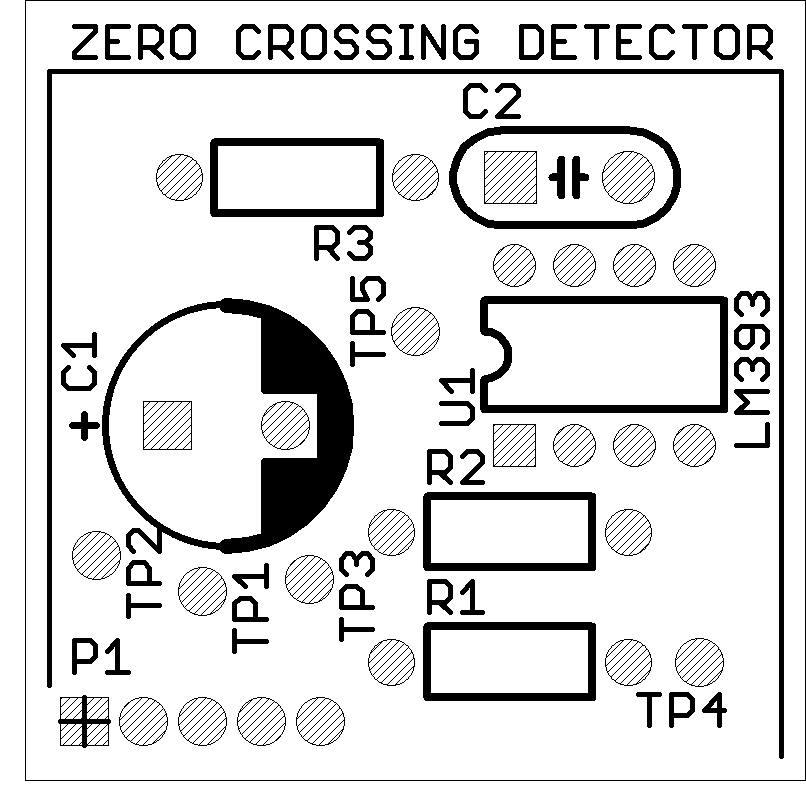
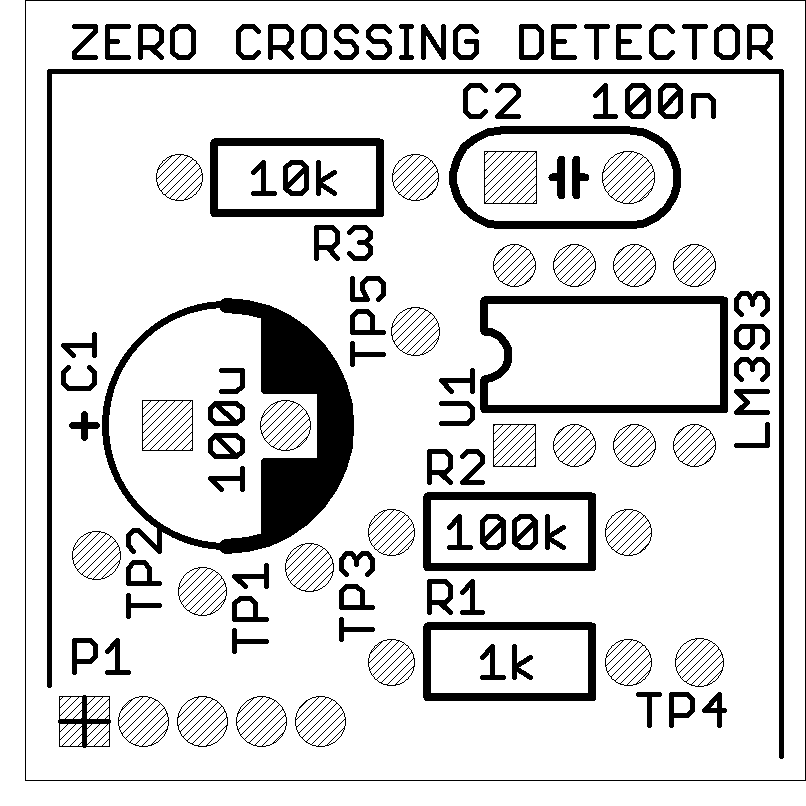
Generating MD file

diff --git a/md/08H-05_A1-01_sch.md b/md/08H-05_A1-01_sch.md
@@ -1,0 +1,73 @@
+# Schematic Export (Markdown)
+
+**ULP Revision Date:** 20250907  
+**Statement:** This document is intended for use in AI training. 
+
+# Circuit Identification
+
+| Field            | Value |
+| ---------------- | ----- |
+| Part Number      | 08H-05 |
+| Revision         | A1-01 |
+| Title            | ZERO CROSSING DETECTOR |
+| PCB Dimensions   | 33 mm x 33 mm |
+| Pieces per Panel | 9 |
+
+# Netlist
+
+| Net | Part | Pad | Pin | Sheet |
+|-----|------|-----|-----|-------|
+| GND | P1 | 1 | GND (1) | 1 |
+| GND | C1 | 2 | 2 | 1 |
+| GND | C2 | 2 | 2 | 1 |
+| GND | TP2 | 1 | 1 | 1 |
+| GND | R2 | 1 | 1 | 1 |
+| GND | U1 | V- | V- | 1 |
+| GND | U1 | -IN | -IN | 1 |
+| GND | U1 | +IN | +IN | 1 |
+| GND | U1 | -IN | -IN | 1 |
+| N$7 | R3 | 2 | 2 | 1 |
+| N$7 | P1 | 5 | OUT (5) | 1 |
+| N$7 | U1 | OUT | OUT | 1 |
+| N$7 | TP5 | 1 | 1 | 1 |
+| N$8 | R2 | 2 | 2 | 1 |
+| N$8 | R1 | 2 | 2 | 1 |
+| N$8 | U1 | +IN | +IN | 1 |
+| N$8 | TP4 | 1 | 1 | 1 |
+| N$9 | R1 | 1 | 1 | 1 |
+| N$9 | P1 | 4 | IN (4) | 1 |
+| N$9 | TP3 | 1 | 1 | 1 |
+| V+ | P1 | 2 | V+ (2) | 1 |
+| V+ | C1 | 1 | 1 | 1 |
+| V+ | C2 | 1 | 1 | 1 |
+| V+ | TP1 | 1 | 1 | 1 |
+| V+ | R3 | 1 | 1 | 1 |
+| V+ | U1 | V+ | V+ | 1 |
+
+# Partlist
+
+| REF DES | PART TYPE | VALUE / DESCRIPTION |
+|---------|-----------|---------------------|
+| C1 | Capacitor | 100u |
+| C2 | Capacitor | 100n |
+| P1 | Connector (plug) |  |
+| R1 | Resistor | 1k |
+| R2 | Resistor | 100k |
+| R3 | Resistor | 10k |
+| TP1 | Test point | V+ |
+| TP2 | Test point | GND |
+| TP3 | Test point | INPUT |
+| TP4 | Test point | INPUT_ATTENUATED |
+| TP5 | Test point | OUTPUT |
+| U1 | Integrated circuit / Opto | LM393 |
+
+# Pinout Description Table, P1  
+
+| Pin | Label | Notes |
+|-----|-------|-------|
+| 1 | GND |  |
+| 2 | V+ |  |
+| 3 | NC |  |
+| 4 | IN |  |
+| 5 | OUT |  |
+
